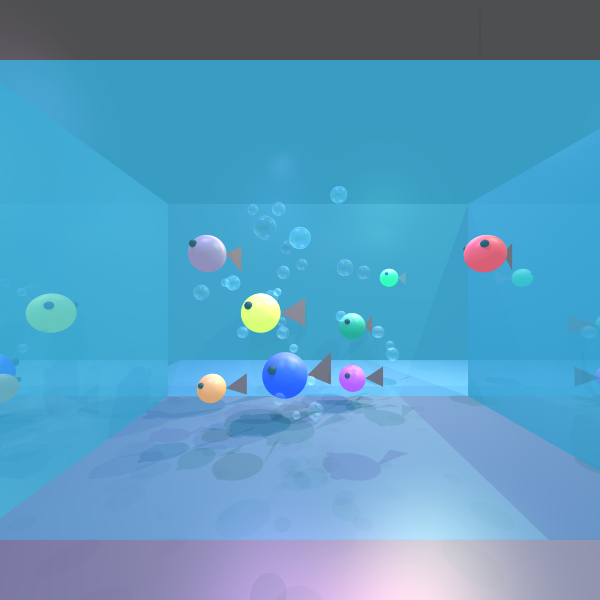
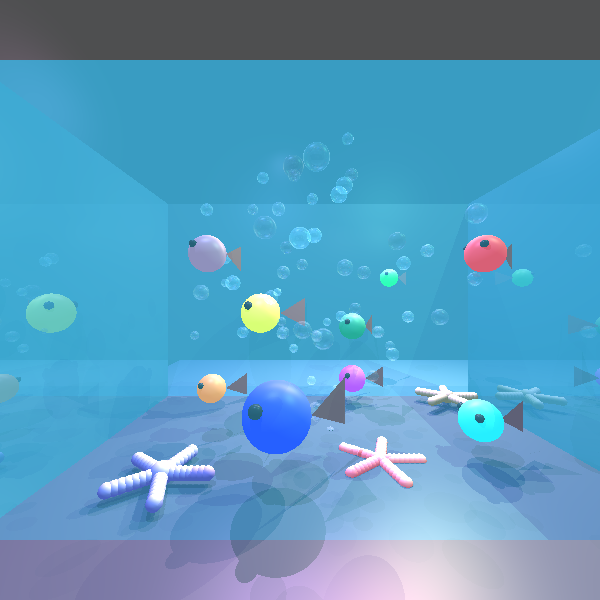
Adding starfishes to the final image

diff --git a/src/test/MyImageTest.java b/src/test/MyImageTest.java
@@ -24,23 +24,26 @@ import java.util.Random;
  */
 public class MyImageTest {
 
-    /** The scene where all geometries and lighting are placed */
+    /**
+     * The scene where all geometries and lighting are placed
+     */
     private final Scene scene = new Scene("Test scene");
 
 
-    private final Camera.Builder camera     = Camera.getBuilder()
-            .setDirection(new Vector(0,0,-1), Vector.Y)
+    private final Camera.Builder camera = Camera.getBuilder()
+            .setDirection(new Vector(0, 0, -1), Vector.Y)
             .setLocation(new Point(0, 0, 1000)).setVpDistance(700)
             .setVpSize(200, 200)
             .setRayTracer(new SimpleRayTracer(scene))
             .setNumSamples(1);
 
 
-
-    /** Camera builder of the tests */
-    private final Camera.Builder camera1     = Camera.getBuilder()
+    /**
+     * Camera builder of the tests
+     */
+    private final Camera.Builder camera1 = Camera.getBuilder()
             .setDirection(new Vector(0, 1, 0), new Vector(0, 0, 1))
-            .setNumSamples(80)
+            .setNumSamples(1)
             .setLocation(new Point(-40, -200, -20)).setVpDistance(100)
             .setVpSize(200, 200)
             .setThreadsCount(3)
@@ -91,14 +94,14 @@ public class MyImageTest {
 
 
         // Add a pyramid
-        Point apex = new Point(35.0,-51.6,-11.1);
+        Point apex = new Point(35.0, -51.6, -11.1);
         Point p1 = new Point(-60, -106.6, -93.6);
-        Point p2 = new Point(90.0,-106.7,-103.6);
-        Point p3 = new Point(52.5,5.8,-111.1);
+        Point p2 = new Point(90.0, -106.7, -103.6);
+        Point p3 = new Point(52.5, 5.8, -111.1);
 
         Triangle pyramidSide1 = (Triangle) new Triangle(p1, p2, apex)
                 .setMaterial(new Material().setKd(0.1).setKs(0.4).setShininess(30).setKr(0.15));
-        Triangle pyramidSide2 = (Triangle) new Triangle(p2, p3 , apex)
+        Triangle pyramidSide2 = (Triangle) new Triangle(p2, p3, apex)
                 .setMaterial(new Material().setKd(0.2).setKs(0.7).setShininess(30).setKr(0.7));
         Triangle pyramidSide3 = (Triangle) new Triangle(p1, p3, apex)
                 .setMaterial(new Material().setKd(0.0).setKs(0.0).setShininess(30).setKr(1)).setEmission(new Color(20, 30, 40));
@@ -113,16 +116,15 @@ public class MyImageTest {
         scene.geometries.add(tube);
 
 
-
         // Add a cube
-        p1 = new Point(-67.67766952966369,-5.177669529663689,-44.82233047033631);
-        p2 = new Point(-32.32233047033632,19.822330470336308,-69.82233047033631);
-        p3 = new Point(-57.32233047033631,62.5,-62.5);
-        Point p4 = new Point(-92.67766952966369,37.5,-37.5);
-        Point p5 = new Point(-92.67766952966369,-12.5,-87.5);
-        Point p6 = new Point(-57.32233047033631,12.499999999999996,-112.5);
-        Point p7 = new Point(-82.32233047033631,55.17766952966369,-105.17766952966369);
-        Point p8 = new Point(-117.67766952966369,30.177669529663692,-80.17766952966369);
+        p1 = new Point(-67.67766952966369, -5.177669529663689, -44.82233047033631);
+        p2 = new Point(-32.32233047033632, 19.822330470336308, -69.82233047033631);
+        p3 = new Point(-57.32233047033631, 62.5, -62.5);
+        Point p4 = new Point(-92.67766952966369, 37.5, -37.5);
+        Point p5 = new Point(-92.67766952966369, -12.5, -87.5);
+        Point p6 = new Point(-57.32233047033631, 12.499999999999996, -112.5);
+        Point p7 = new Point(-82.32233047033631, 55.17766952966369, -105.17766952966369);
+        Point p8 = new Point(-117.67766952966369, 30.177669529663692, -80.17766952966369);
 
         Polygon front = new Polygon(p1, p2, p3, p4);
         Polygon back = new Polygon(p5, p6, p7, p8);
@@ -191,8 +193,8 @@ public class MyImageTest {
                 new Polygon(new Point(-200, -200, -100), new Point(-200, -200, 400), new Point(-200, 200, 400), new Point(-200, 200, -100))
                         .setEmission(new Color(40, 41, 42))
                         .setMaterial(new Material().setKd(0.0).setKs(0.2).setShininess(30).setKr(0.0)),
-         //add bubbles
-        new Sphere(2.6, new Point(10.9, -30.2, -45.8)).setEmission(new Color(0, 0, 0)).setMaterial(new Material().setKd(0.1).setKs(0.3).setShininess(50).setKr(0.13).setKt(0.85)),
+                //add bubbles
+                new Sphere(2.6, new Point(10.9, -30.2, -45.8)).setEmission(new Color(0, 0, 0)).setMaterial(new Material().setKd(0.1).setKs(0.3).setShininess(50).setKr(0.13).setKt(0.85)),
                 new Sphere(3.6, new Point(-54.4, -51.1, -18.7)).setEmission(new Color(0, 0, 0)).setMaterial(new Material().setKd(0.1).setKs(0.3).setShininess(50).setKr(0.14).setKt(0.89)),
                 new Sphere(5.0, new Point(-55.1, -70.6, 11.2)).setEmission(new Color(0, 0, 0)).setMaterial(new Material().setKd(0.1).setKs(0.3).setShininess(50).setKr(0.07).setKt(0.87)),
                 new Sphere(4.1, new Point(-1.3, -17.7, -3.3)).setEmission(new Color(0, 0, 0)).setMaterial(new Material().setKd(0.1).setKs(0.3).setShininess(50).setKr(0.10).setKt(0.84)),
@@ -221,24 +223,73 @@ public class MyImageTest {
                 new Sphere(2.2, new Point(-62.0, -84.6, -32.4)).setEmission(new Color(0, 0, 0)).setMaterial(new Material().setKd(0.1).setKs(0.3).setShininess(50).setKr(0.10).setKt(0.95)),
                 new Sphere(2.1, new Point(-31.9, -52.4, -77.7)).setEmission(new Color(0, 0, 0)).setMaterial(new Material().setKd(0.1).setKs(0.3).setShininess(50).setKr(0.11).setKt(0.84)),
                 new Sphere(4.7, new Point(19.6, 29.0, -44.4)).setEmission(new Color(0, 0, 0)).setMaterial(new Material().setKd(0.1).setKs(0.3).setShininess(50).setKr(0.14).setKt(0.84)),
-                new Sphere(3.9, new Point(-50.3, -17.9, -39.9)).setEmission(new Color(0, 0, 0)).setMaterial(new Material().setKd(0.1).setKs(0.3).setShininess(50).setKr(0.13).setKt(0.82)))
+                new Sphere(3.9, new Point(-50.3, -17.9, -39.9)).setEmission(new Color(0, 0, 0)).setMaterial(new Material().setKd(0.1).setKs(0.3).setShininess(50).setKr(0.13).setKt(0.82)),
+                new Sphere(2.2, new Point(-93.0, -48.7, -37.8)).setEmission(new Color(0, 0, 0)).setMaterial(new Material().setKd(0.1).setKs(0.3).setShininess(50).setKr(0.15).setKt(0.82)),
+                new Sphere(2.9, new Point(-34.6, -85.2, 4.7)).setEmission(new Color(0, 0, 0)).setMaterial(new Material().setKd(0.1).setKs(0.3).setShininess(50).setKr(0.13).setKt(0.99)),
+                new Sphere(4.1, new Point(30.5, -48.7, -28.6)).setEmission(new Color(0, 0, 0)).setMaterial(new Material().setKd(0.1).setKs(0.3).setShininess(50).setKr(0.06).setKt(0.89)),
+                new Sphere(3.1, new Point(-5.9, -94.4, 0.7)).setEmission(new Color(0, 0, 0)).setMaterial(new Material().setKd(0.1).setKs(0.3).setShininess(50).setKr(0.05).setKt(0.88)),
+                new Sphere(3.8, new Point(17.0, -34.8, 0.2)).setEmission(new Color(0, 0, 0)).setMaterial(new Material().setKd(0.1).setKs(0.3).setShininess(50).setKr(0.07).setKt(0.97)),
+                new Sphere(4.8, new Point(-38.7, -42.4, -35.7)).setEmission(new Color(0, 0, 0)).setMaterial(new Material().setKd(0.1).setKs(0.3).setShininess(50).setKr(0.10).setKt(0.84)),
+                new Sphere(3.7, new Point(-43.4, -20.6, 54.4)).setEmission(new Color(0, 0, 0)).setMaterial(new Material().setKd(0.1).setKs(0.3).setShininess(50).setKr(0.12).setKt(0.82)),
+                new Sphere(2.9, new Point(-33.7, -44.1, 32.4)).setEmission(new Color(0, 0, 0)).setMaterial(new Material().setKd(0.1).setKs(0.3).setShininess(50).setKr(0.15).setKt(0.90)),
+                new Sphere(2.8, new Point(-21.2, 8.3, -35.3)).setEmission(new Color(0, 0, 0)).setMaterial(new Material().setKd(0.1).setKs(0.3).setShininess(50).setKr(0.07).setKt(0.96)),
+                new Sphere(2.9, new Point(-83.6, -59.3, 22.3)).setEmission(new Color(0, 0, 0)).setMaterial(new Material().setKd(0.1).setKs(0.3).setShininess(50).setKr(0.07).setKt(0.96)),
+                new Sphere(2.5, new Point(-20.2, -35.4, -69.3)).setEmission(new Color(0, 0, 0)).setMaterial(new Material().setKd(0.1).setKs(0.3).setShininess(50).setKr(0.13).setKt(0.87)),
+                new Sphere(3.9, new Point(31.4, -1.6, -31.0)).setEmission(new Color(0, 0, 0)).setMaterial(new Material().setKd(0.1).setKs(0.3).setShininess(50).setKr(0.14).setKt(0.90)),
+                new Sphere(4.5, new Point(-26.2, 43.8, -49.7)).setEmission(new Color(0, 0, 0)).setMaterial(new Material().setKd(0.1).setKs(0.3).setShininess(50).setKr(0.12).setKt(0.87)),
+                new Sphere(3.3, new Point(-80.4, 26.9, -26.5)).setEmission(new Color(0, 0, 0)).setMaterial(new Material().setKd(0.1).setKs(0.3).setShininess(50).setKr(0.08).setKt(0.91)),
+                new Sphere(3.4, new Point(-29.7, -6.8, -42.8)).setEmission(new Color(0, 0, 0)).setMaterial(new Material().setKd(0.1).setKs(0.3).setShininess(50).setKr(0.12).setKt(0.83)),
+                new Sphere(4.4, new Point(46.8, 4.5, 13.5)).setEmission(new Color(0, 0, 0)).setMaterial(new Material().setKd(0.1).setKs(0.3).setShininess(50).setKr(0.15).setKt(0.85)),
+                new Sphere(4.4, new Point(35.7, -71.1, 17.1)).setEmission(new Color(0, 0, 0)).setMaterial(new Material().setKd(0.1).setKs(0.3).setShininess(50).setKr(0.08).setKt(0.89)),
+                new Sphere(4.9, new Point(-34.0, -90.9, 31.9)).setEmission(new Color(0, 0, 0)).setMaterial(new Material().setKd(0.1).setKs(0.3).setShininess(50).setKr(0.09).setKt(0.91)),
+                new Sphere(3.0, new Point(-15.9, -59.1, 38.6)).setEmission(new Color(0, 0, 0)).setMaterial(new Material().setKd(0.1).setKs(0.3).setShininess(50).setKr(0.12).setKt(0.84)),
+                new Sphere(4.1, new Point(-31.2, -85.9, -34.8)).setEmission(new Color(0, 0, 0)).setMaterial(new Material().setKd(0.1).setKs(0.3).setShininess(50).setKr(0.09).setKt(0.86)),
+                new Sphere(4.9, new Point(-43.1, -60.0, 42.3)).setEmission(new Color(0, 0, 0)).setMaterial(new Material().setKd(0.1).setKs(0.3).setShininess(50).setKr(0.07).setKt(0.82)),
+                new Sphere(3.9, new Point(-19.5, -60.7, 33.1)).setEmission(new Color(0, 0, 0)).setMaterial(new Material().setKd(0.1).setKs(0.3).setShininess(50).setKr(0.06).setKt(1.00)),
+                new Sphere(2.6, new Point(-16.3, -71.3, -23.8)).setEmission(new Color(0, 0, 0)).setMaterial(new Material().setKd(0.1).setKs(0.3).setShininess(50).setKr(0.10).setKt(0.85)),
+                new Sphere(3.0, new Point(-21.1, -13.8, -101.7)).setEmission(new Color(0, 0, 0)).setMaterial(new Material().setKd(0.1).setKs(0.3).setShininess(50).setKr(0.11).setKt(0.97)),
+                new Sphere(3.1, new Point(39.2, -63.8, -10.5)).setEmission(new Color(0, 0, 0)).setMaterial(new Material().setKd(0.1).setKs(0.3).setShininess(50).setKr(0.10).setKt(0.89)),
+                new Sphere(2.7, new Point(-17.6, -59.2, 55.5)).setEmission(new Color(0, 0, 0)).setMaterial(new Material().setKd(0.1).setKs(0.3).setShininess(50).setKr(0.08).setKt(0.95)),
+                new Sphere(3.9, new Point(-91.0, 4.2, 8.2)).setEmission(new Color(0, 0, 0)).setMaterial(new Material().setKd(0.1).setKs(0.3).setShininess(50).setKr(0.12).setKt(0.93)),
+                new Sphere(3.2, new Point(-96.4, -7.2, 4.7)).setEmission(new Color(0, 0, 0)).setMaterial(new Material().setKd(0.1).setKs(0.3).setShininess(50).setKr(0.14).setKt(0.98)),
+                new Sphere(3.0, new Point(-2.0, -43.3, -59.6)).setEmission(new Color(0, 0, 0)).setMaterial(new Material().setKd(0.1).setKs(0.3).setShininess(50).setKr(0.08).setKt(0.82)),
+                new Sphere(2.1, new Point(-53.7, -89.0, 25.1)).setEmission(new Color(0, 0, 0)).setMaterial(new Material().setKd(0.1).setKs(0.3).setShininess(50).setKr(0.11).setKt(0.96)))
 
 
         ;
 
 
-
-
-        createFish(new Point(-50, 0, -70), scene, 15.0, new Color(0, 0, 255), 20);
+        //createFish(new Point(-50, 0, -70), scene, 15.0, new Color(0, 0, 255), 20);
+        createFish(new Point(-50, -70, -70), scene, 15.0, new Color(0, 0, 255), 20);
         createFish(new Point(0, 30, -80), scene, 10.0, new Color(200, 0, 255));
-        createFish(new Point(0, 30, -40), scene, 10.0, new Color(0,110,51), 30);
+        createFish(new Point(0, 30, -40), scene, 10.0, new Color(0, 110, 51), 30);
         createFish(new Point(-70, 30, -30), scene, 15.0, new Color(YELLOW), 15);
         createFish(new Point(-90, -30, -70), scene, 8.0, new Color(255, 100, 0), 15);
+
+        createFish(new Point(50, -50, -80), scene, 10.0, new Color(0, 204, 204));
+
         createFish(new Point(40, -70, 0), scene, 8.0, new Color(255, 0, 0), 15);
         createFish(new Point(40, 70, 0), scene, 8.0, new Color(0, 255, 0), 15);
-        createFish(new Point(-80, -70, 0), scene, 8.0, new Color(150,70,100), 45);
+        createFish(new Point(-80, -70, 0), scene, 8.0, new Color(150, 70, 100), 45);
 
-        //createBubbles(new Point(-25, -25, -20), 75, 30, 2, 5, scene);
+        //createBubbles(new Point(-25, -25, -20), 85, 30, 2, 5, scene);
+        Point starfishCenter = new Point(-100, -70, -95);
+        List<Sphere> starfish = createStarfish(starfishCenter, 20, 5, 3, new Color(51, 0, 102));        //add all the starfish to the scene
+        for (Sphere s : starfish) {
+            scene.geometries.add(s);
+        }
+
+        starfishCenter = new Point(70, 25, -92);
+        starfish = createStarfish(starfishCenter, 20, 5, 3, new Color(102, 51, 0));
+        for (Sphere s : starfish) {
+            scene.geometries.add(s);
+        }
+
+        starfishCenter = new Point(0, -50, -100);
+        starfish = createStarfish(starfishCenter, 20, 3, 3, new Color(204, 0, 0));
+        for (Sphere s : starfish) {
+            scene.geometries.add(s);
+        }
 
 
         // Add a cube
@@ -260,11 +311,11 @@ public class MyImageTest {
 
 
         Material cubeMaterial = new Material().setKd(0.1).setKs(0.1).setShininess(60).setKt(0.7);
-        Material cubeMaterialReflective =new  Material().setKd(0.1).setKs(0.1).setShininess(60).setKr(0.25);
-        Color cubeColor = new Color(0,58,80);
+        Material cubeMaterialReflective = new Material().setKd(0.1).setKs(0.1).setShininess(60).setKr(0.25);
+        Color cubeColor = new Color(0, 58, 80);
 
         front.setMaterial(cubeMaterial).setEmission(cubeColor);
-        back.setMaterial(cubeMaterial).setEmission(cubeColor);
+        back.setMaterial(cubeMaterialReflective).setEmission(cubeColor);
         top.setMaterial(cubeMaterial).setEmission(cubeColor);
         bottom.setMaterial(cubeMaterial).setEmission(cubeColor);
         left.setMaterial(cubeMaterialReflective).setEmission(cubeColor);
@@ -298,19 +349,35 @@ public class MyImageTest {
     }
 
 
+    public static List<Sphere> createStarfish(Point center, double armLength, double centerRadius, double armRadius, Color color) {
+        List<Sphere> starfishSpheres = new ArrayList<>();
+
+        // build the center sphere
+        starfishSpheres.add((Sphere) new Sphere(centerRadius, center)
+                .setEmission(color)
+                .setMaterial(new Material().setKd(0.8).setKs(0.2).setShininess(30)));
+
+        // build the arms
+        int numSegments = 8;
+        for (int i = 0; i < 5; i++) {
+            double angle = 2 * Math.PI * i / 5;
+            Vector direction = new Vector(Math.cos(angle), Math.sin(angle), 0).normalize();
+
+            // add the spheres for the arm
+            for (int j = 1; j <= numSegments; j++) {
+                double segmentDistance = armLength * j / numSegments;
+                Point segmentCenter = center.add(direction.scale(segmentDistance));
+                starfishSpheres.add((Sphere) new Sphere(armRadius, segmentCenter)
+                        .setEmission(color)
+                        .setMaterial(new Material().setKd(0.8).setKs(0.2).setShininess(30)));
+            }
+        }
+
+        return starfishSpheres;
+    }
 
 
-
-
-
-
-
-
-
-
-
-
-    public static void createFish(Point center, Scene scene,double bodyRadius,Color color) {
+    public static void createFish(Point center, Scene scene, double bodyRadius, Color color) {
         // Create the body (a Sphere)
         Sphere body = (Sphere) new Sphere(bodyRadius, center)
                 .setEmission(color)
@@ -426,7 +493,15 @@ public class MyImageTest {
     }
 
 
-/*
+
+
+
+
+
+
+
+ /*
+
     public static void createBubbles(Point center, double radius, int numBubbles, double minRadius, double maxRadius, Scene scene) {
         List<Sphere> bubbles = new ArrayList<>();
         Random random = new Random();
@@ -476,6 +551,8 @@ public class MyImageTest {
 
         return center.add(new Vector(x, y, z));
     }
+
+
 
     public static void printBubbles(List<Sphere> bubbles, Random random) {
         for (Sphere bubble : bubbles) {
